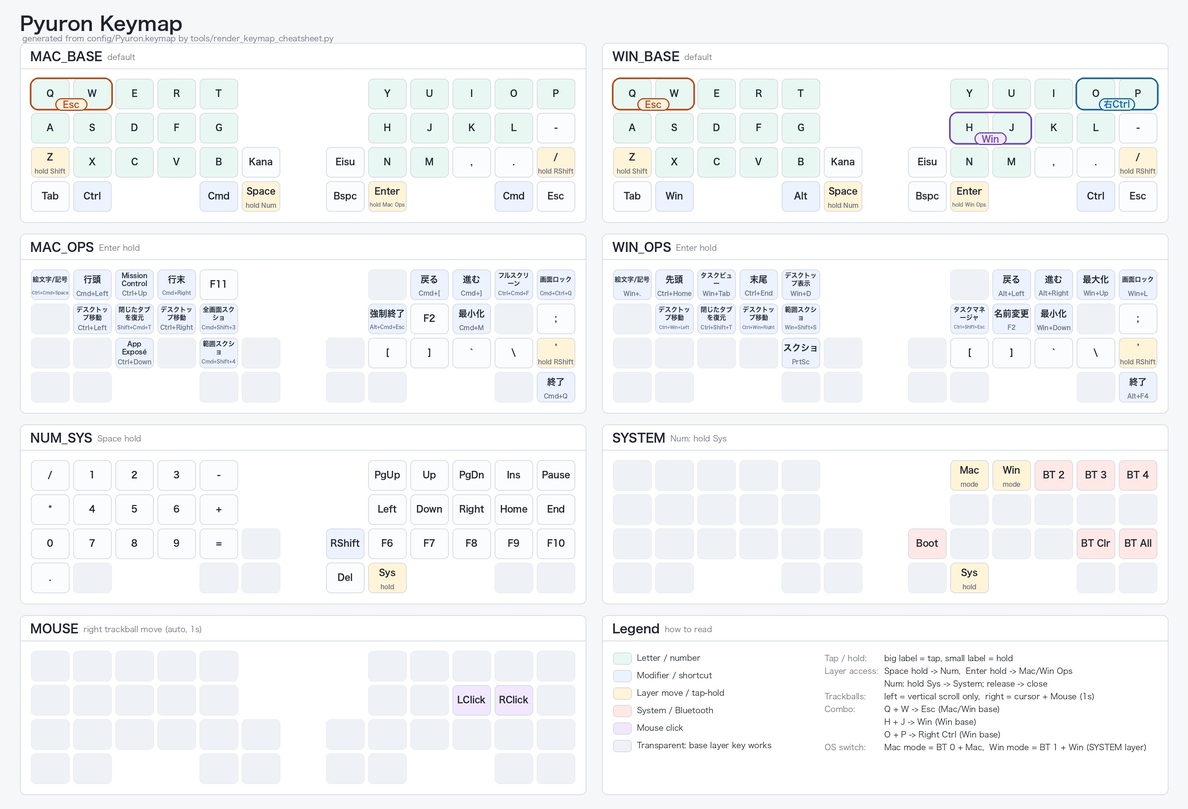
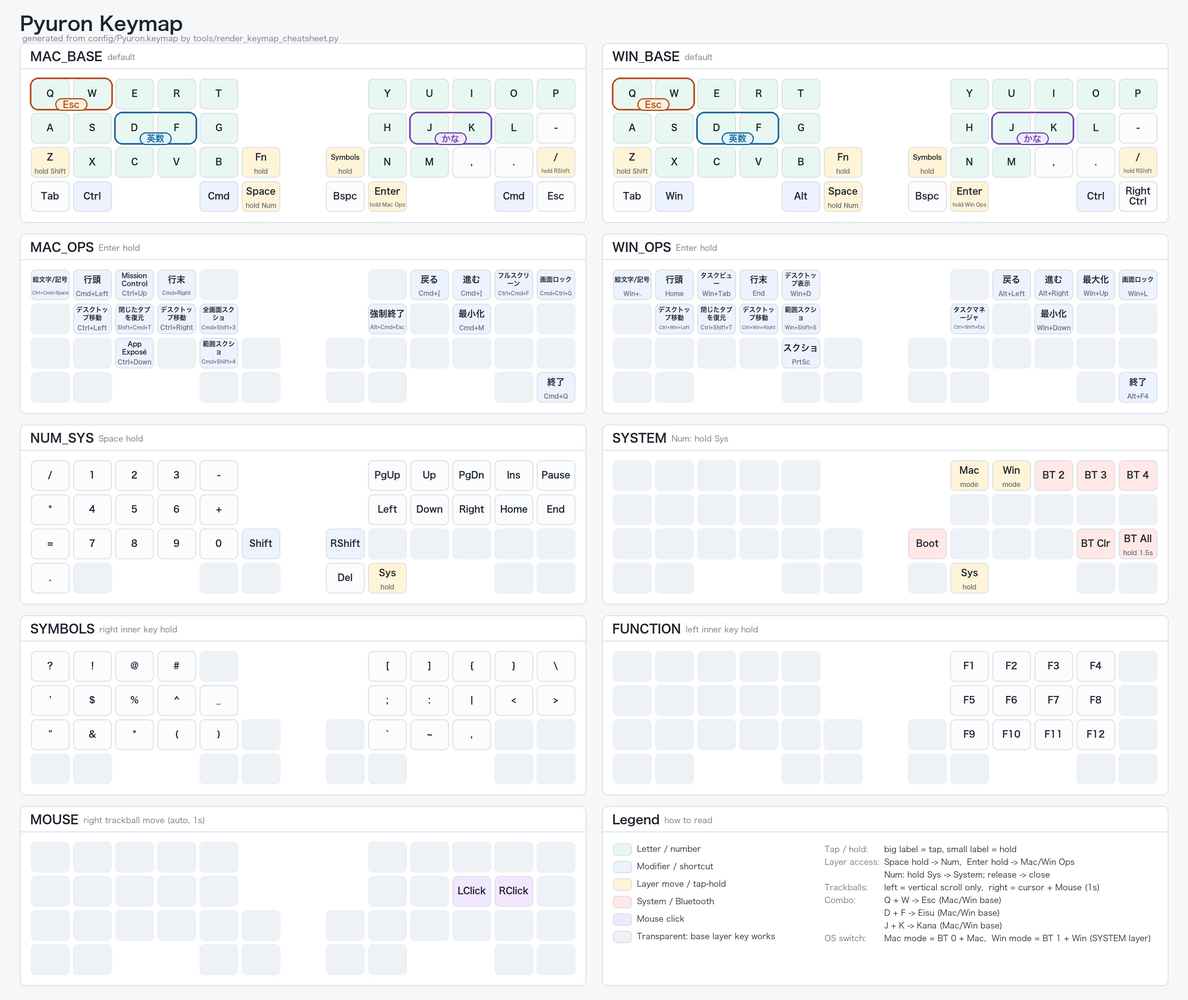
feat: 記号とFキーレイヤーを追加し共通US配列を整理

diff --git a/docs/keymap-cheatsheet.html b/docs/keymap-cheatsheet.html
@@ -430,8 +430,8 @@
       <h1>Pyuron Keymap</h1>
       <div class="meta">
         <span class="pill">40 keys</span>
-        <span class="pill">7 layers</span>
-        <span class="pill">combo Q + W -> Esc (MAC_BASE, WIN_BASE), H + J -> Win (WIN_BASE), O + P -> Right Ctrl (WIN_BASE)</span>
+        <span class="pill">9 layers</span>
+        <span class="pill">combo Q + W -> Esc (MAC_BASE, WIN_BASE), D + F -> Eisu (MAC_BASE, WIN_BASE), J + K -> Kana (MAC_BASE, WIN_BASE)</span>
       </div>
     </header>
 
@@ -467,7 +467,7 @@
     // Do not hand-edit positions/layers below; re-run the script instead.
     const positions = [{"row": 0, "col": 0, "x": 0, "y": 0}, {"row": 0, "col": 1, "x": 1, "y": 0}, {"row": 0, "col": 2, "x": 2, "y": 0}, {"row": 0, "col": 3, "x": 3, "y": 0}, {"row": 0, "col": 4, "x": 4, "y": 0}, {"row": 0, "col": 5, "x": 8, "y": 0}, {"row": 0, "col": 6, "x": 9, "y": 0}, {"row": 0, "col": 7, "x": 10, "y": 0}, {"row": 0, "col": 8, "x": 11, "y": 0}, {"row": 0, "col": 9, "x": 12, "y": 0}, {"row": 1, "col": 0, "x": 0, "y": 1}, {"row": 1, "col": 1, "x": 1, "y": 1}, {"row": 1, "col": 2, "x": 2, "y": 1}, {"row": 1, "col": 3, "x": 3, "y": 1}, {"row": 1, "col": 4, "x": 4, "y": 1}, {"row": 1, "col": 5, "x": 8, "y": 1}, {"row": 1, "col": 6, "x": 9, "y": 1}, {"row": 1, "col": 7, "x": 10, "y": 1}, {"row": 1, "col": 8, "x": 11, "y": 1}, {"row": 1, "col": 9, "x": 12, "y": 1}, {"row": 2, "col": 0, "x": 0, "y": 2}, {"row": 2, "col": 1, "x": 1, "y": 2}, {"row": 2, "col": 2, "x": 2, "y": 2}, {"row": 2, "col": 3, "x": 3, "y": 2}, {"row": 2, "col": 4, "x": 4, "y": 2}, {"row": 2, "col": 5, "x": 5, "y": 2}, {"row": 2, "col": 6, "x": 7, "y": 2}, {"row": 2, "col": 7, "x": 8, "y": 2}, {"row": 2, "col": 8, "x": 9, "y": 2}, {"row": 2, "col": 9, "x": 10, "y": 2}, {"row": 3, "col": 0, "x": 11, "y": 2}, {"row": 3, "col": 1, "x": 12, "y": 2}, {"row": 3, "col": 2, "x": 0, "y": 3}, {"row": 3, "col": 3, "x": 1, "y": 3}, {"row": 3, "col": 4, "x": 4, "y": 3}, {"row": 3, "col": 5, "x": 5, "y": 3}, {"row": 3, "col": 6, "x": 7, "y": 3}, {"row": 3, "col": 7, "x": 8, "y": 3}, {"row": 3, "col": 8, "x": 11, "y": 3}, {"row": 3, "col": 9, "x": 12, "y": 3}];
 
-    const layers = [{"name": "MAC_BASE", "group": "mac", "note": "default", "keys": [["Q", "", "letter"], ["W", "", "letter"], ["E", "", "letter"], ["R", "", "letter"], ["T", "", "letter"], ["Y", "", "letter"], ["U", "", "letter"], ["I", "", "letter"], ["O", "", "letter"], ["P", "", "letter"], ["A", "", "letter"], ["S", "", "letter"], ["D", "", "letter"], ["F", "", "letter"], ["G", "", "letter"], ["H", "", "letter"], ["J", "", "letter"], ["K", "", "letter"], ["L", "", "letter"], ["-", "", ""], ["Z", "hold Shift", "layer"], ["X", "", "letter"], ["C", "", "letter"], ["V", "", "letter"], ["B", "", "letter"], ["Kana", "", ""], ["Eisu", "", ""], ["N", "", "letter"], ["M", "", "letter"], [",", "", ""], [".", "", ""], ["/", "hold RShift", "layer"], ["Tab", "", ""], ["Ctrl", "", "mod"], ["Cmd", "", "mod"], ["Space", "hold Num", "layer"], ["Bspc", "", ""], ["Enter", "hold Mac Ops", "layer"], ["Cmd", "", "mod"], ["Esc", "", ""]]}, {"name": "MAC_OPS", "group": "mac", "note": "Enter hold", "keys": [["絵文字/記号", "Ctrl+Cmd+Space", "mod"], ["行頭", "Cmd+Left", "mod"], ["Mission Control", "Ctrl+Up", "mod"], ["行末", "Cmd+Right", "mod"], ["F11", "", ""], ["trns", "", "transparent"], ["戻る", "Cmd+[", "mod"], ["進む", "Cmd+]", "mod"], ["フルスクリーン", "Ctrl+Cmd+F", "mod"], ["画面ロック", "Cmd+Ctrl+Q", "mod"], ["trns", "", "transparent"], ["デスクトップ移動", "Ctrl+Left", "mod"], ["閉じたタブを復元", "Shift+Cmd+T", "mod"], ["デスクトップ移動", "Ctrl+Right", "mod"], ["全画面スクショ", "Cmd+Shift+3", "mod"], ["強制終了", "Alt+Cmd+Esc", "mod"], ["F2", "", ""], ["最小化", "Cmd+M", "mod"], ["trns", "", "transparent"], [";", "", ""], ["trns", "", "transparent"], ["trns", "", "transparent"], ["App Exposé", "Ctrl+Down", "mod"], ["trns", "", "transparent"], ["範囲スクショ", "Cmd+Shift+4", "mod"], ["trns", "", "transparent"], ["trns", "", "transparent"], ["[", "", ""], ["]", "", ""], ["`", "", ""], ["\\", "", ""], ["'", "hold RShift", "layer"], ["trns", "", "transparent"], ["trns", "", "transparent"], ["trns", "", "transparent"], ["trns", "", "transparent"], ["trns", "", "transparent"], ["trns", "", "transparent"], ["trns", "", "transparent"], ["終了", "Cmd+Q", "mod"]]}, {"name": "WIN_BASE", "group": "win", "note": "default", "keys": [["Q", "", "letter"], ["W", "", "letter"], ["E", "", "letter"], ["R", "", "letter"], ["T", "", "letter"], ["Y", "", "letter"], ["U", "", "letter"], ["I", "", "letter"], ["O", "", "letter"], ["P", "", "letter"], ["A", "", "letter"], ["S", "", "letter"], ["D", "", "letter"], ["F", "", "letter"], ["G", "", "letter"], ["H", "", "letter"], ["J", "", "letter"], ["K", "", "letter"], ["L", "", "letter"], ["-", "", ""], ["Z", "hold Shift", "layer"], ["X", "", "letter"], ["C", "", "letter"], ["V", "", "letter"], ["B", "", "letter"], ["Kana", "", ""], ["Eisu", "", ""], ["N", "", "letter"], ["M", "", "letter"], [",", "", ""], [".", "", ""], ["/", "hold RShift", "layer"], ["Tab", "", ""], ["Win", "", "mod"], ["Alt", "", "mod"], ["Space", "hold Num", "layer"], ["Bspc", "", ""], ["Enter", "hold Win Ops", "layer"], ["Ctrl", "", "mod"], ["Esc", "", ""]]}, {"name": "WIN_OPS", "group": "win", "note": "Enter hold", "keys": [["絵文字/記号", "Win+.", "mod"], ["先頭", "Ctrl+Home", "mod"], ["タスクビュー", "Win+Tab", "mod"], ["末尾", "Ctrl+End", "mod"], ["デスクトップ表示", "Win+D", "mod"], ["trns", "", "transparent"], ["戻る", "Alt+Left", "mod"], ["進む", "Alt+Right", "mod"], ["最大化", "Win+Up", "mod"], ["画面ロック", "Win+L", "mod"], ["trns", "", "transparent"], ["デスクトップ移動", "Ctrl+Win+Left", "mod"], ["閉じたタブを復元", "Ctrl+Shift+T", "mod"], ["デスクトップ移動", "Ctrl+Win+Right", "mod"], ["範囲スクショ", "Win+Shift+S", "mod"], ["タスクマネージャ", "Ctrl+Shift+Esc", "mod"], ["名前変更", "F2", "mod"], ["最小化", "Win+Down", "mod"], ["trns", "", "transparent"], [";", "", ""], ["trns", "", "transparent"], ["trns", "", "transparent"], ["trns", "", "transparent"], ["trns", "", "transparent"], ["スクショ", "PrtSc", "mod"], ["trns", "", "transparent"], ["trns", "", "transparent"], ["[", "", ""], ["]", "", ""], ["`", "", ""], ["\\", "", ""], ["'", "hold RShift", "layer"], ["trns", "", "transparent"], ["trns", "", "transparent"], ["trns", "", "transparent"], ["trns", "", "transparent"], ["trns", "", "transparent"], ["trns", "", "transparent"], ["trns", "", "transparent"], ["終了", "Alt+F4", "mod"]]}, {"name": "NUM_SYS", "group": "utility", "note": "Space hold", "keys": [["/", "", ""], ["1", "", ""], ["2", "", ""], ["3", "", ""], ["-", "", ""], ["PgUp", "", ""], ["Up", "", ""], ["PgDn", "", ""], ["Ins", "", ""], ["Pause", "", ""], ["*", "", ""], ["4", "", ""], ["5", "", ""], ["6", "", ""], ["+", "", ""], ["Left", "", ""], ["Down", "", ""], ["Right", "", ""], ["Home", "", ""], ["End", "", ""], ["0", "", ""], ["7", "", ""], ["8", "", ""], ["9", "", ""], ["=", "", ""], ["trns", "", "transparent"], ["RShift", "", "mod"], ["F6", "", ""], ["F7", "", ""], ["F8", "", ""], ["F9", "", ""], ["F10", "", ""], [".", "", ""], ["trns", "", "transparent"], ["trns", "", "transparent"], ["trns", "", "transparent"], ["Del", "", ""], ["Sys", "hold", "layer"], ["trns", "", "transparent"], ["trns", "", "transparent"]]}, {"name": "SYSTEM", "group": "utility", "note": "Num: hold Sys", "keys": [["trns", "", "transparent"], ["trns", "", "transparent"], ["trns", "", "transparent"], ["trns", "", "transparent"], ["trns", "", "transparent"], ["Mac", "mode", "layer"], ["Win", "mode", "layer"], ["BT 2", "", "system"], ["BT 3", "", "system"], ["BT 4", "", "system"], ["trns", "", "transparent"], ["trns", "", "transparent"], ["trns", "", "transparent"], ["trns", "", "transparent"], ["trns", "", "transparent"], ["trns", "", "transparent"], ["trns", "", "transparent"], ["trns", "", "transparent"], ["trns", "", "transparent"], ["trns", "", "transparent"], ["trns", "", "transparent"], ["trns", "", "transparent"], ["trns", "", "transparent"], ["trns", "", "transparent"], ["trns", "", "transparent"], ["trns", "", "transparent"], ["Boot", "", "system"], ["trns", "", "transparent"], ["trns", "", "transparent"], ["trns", "", "transparent"], ["BT Clr", "", "system"], ["BT All", "", "system"], ["trns", "", "transparent"], ["trns", "", "transparent"], ["trns", "", "transparent"], ["trns", "", "transparent"], ["trns", "", "transparent"], ["Sys", "hold", "layer"], ["trns", "", "transparent"], ["trns", "", "transparent"]]}, {"name": "MOUSE", "group": "utility", "note": "right trackball move (auto, 1s)", "keys": [["trns", "", "transparent"], ["trns", "", "transparent"], ["trns", "", "transparent"], ["trns", "", "transparent"], ["trns", "", "transparent"], ["trns", "", "transparent"], ["trns", "", "transparent"], ["trns", "", "transparent"], ["trns", "", "transparent"], ["trns", "", "transparent"], ["trns", "", "transparent"], ["trns", "", "transparent"], ["trns", "", "transparent"], ["trns", "", "transparent"], ["trns", "", "transparent"], ["trns", "", "transparent"], ["trns", "", "transparent"], ["LClick", "", "mouse"], ["RClick", "", "mouse"], ["trns", "", "transparent"], ["trns", "", "transparent"], ["trns", "", "transparent"], ["trns", "", "transparent"], ["trns", "", "transparent"], ["trns", "", "transparent"], ["trns", "", "transparent"], ["trns", "", "transparent"], ["trns", "", "transparent"], ["trns", "", "transparent"], ["trns", "", "transparent"], ["trns", "", "transparent"], ["trns", "", "transparent"], ["trns", "", "transparent"], ["trns", "", "transparent"], ["trns", "", "transparent"], ["trns", "", "transparent"], ["trns", "", "transparent"], ["trns", "", "transparent"], ["trns", "", "transparent"], ["trns", "", "transparent"]]}];
+    const layers = [{"name": "MAC_BASE", "group": "mac", "note": "default", "keys": [["Q", "", "letter"], ["W", "", "letter"], ["E", "", "letter"], ["R", "", "letter"], ["T", "", "letter"], ["Y", "", "letter"], ["U", "", "letter"], ["I", "", "letter"], ["O", "", "letter"], ["P", "", "letter"], ["A", "", "letter"], ["S", "", "letter"], ["D", "", "letter"], ["F", "", "letter"], ["G", "", "letter"], ["H", "", "letter"], ["J", "", "letter"], ["K", "", "letter"], ["L", "", "letter"], ["-", "", ""], ["Z", "hold Shift", "layer"], ["X", "", "letter"], ["C", "", "letter"], ["V", "", "letter"], ["B", "", "letter"], ["Fn", "hold", "layer"], ["Symbols", "hold", "layer"], ["N", "", "letter"], ["M", "", "letter"], [",", "", ""], [".", "", ""], ["/", "hold RShift", "layer"], ["Tab", "", ""], ["Ctrl", "", "mod"], ["Cmd", "", "mod"], ["Space", "hold Num", "layer"], ["Bspc", "", ""], ["Enter", "hold Mac Ops", "layer"], ["Cmd", "", "mod"], ["Esc", "", ""]]}, {"name": "MAC_OPS", "group": "mac", "note": "Enter hold", "keys": [["絵文字/記号", "Ctrl+Cmd+Space", "mod"], ["行頭", "Cmd+Left", "mod"], ["Mission Control", "Ctrl+Up", "mod"], ["行末", "Cmd+Right", "mod"], ["trns", "", "transparent"], ["trns", "", "transparent"], ["戻る", "Cmd+[", "mod"], ["進む", "Cmd+]", "mod"], ["フルスクリーン", "Ctrl+Cmd+F", "mod"], ["画面ロック", "Cmd+Ctrl+Q", "mod"], ["trns", "", "transparent"], ["デスクトップ移動", "Ctrl+Left", "mod"], ["閉じたタブを復元", "Shift+Cmd+T", "mod"], ["デスクトップ移動", "Ctrl+Right", "mod"], ["全画面スクショ", "Cmd+Shift+3", "mod"], ["強制終了", "Alt+Cmd+Esc", "mod"], ["trns", "", "transparent"], ["最小化", "Cmd+M", "mod"], ["trns", "", "transparent"], ["trns", "", "transparent"], ["trns", "", "transparent"], ["trns", "", "transparent"], ["App Exposé", "Ctrl+Down", "mod"], ["trns", "", "transparent"], ["範囲スクショ", "Cmd+Shift+4", "mod"], ["trns", "", "transparent"], ["trns", "", "transparent"], ["trns", "", "transparent"], ["trns", "", "transparent"], ["trns", "", "transparent"], ["trns", "", "transparent"], ["trns", "", "transparent"], ["trns", "", "transparent"], ["trns", "", "transparent"], ["trns", "", "transparent"], ["trns", "", "transparent"], ["trns", "", "transparent"], ["trns", "", "transparent"], ["trns", "", "transparent"], ["終了", "Cmd+Q", "mod"]]}, {"name": "WIN_BASE", "group": "win", "note": "default", "keys": [["Q", "", "letter"], ["W", "", "letter"], ["E", "", "letter"], ["R", "", "letter"], ["T", "", "letter"], ["Y", "", "letter"], ["U", "", "letter"], ["I", "", "letter"], ["O", "", "letter"], ["P", "", "letter"], ["A", "", "letter"], ["S", "", "letter"], ["D", "", "letter"], ["F", "", "letter"], ["G", "", "letter"], ["H", "", "letter"], ["J", "", "letter"], ["K", "", "letter"], ["L", "", "letter"], ["-", "", ""], ["Z", "hold Shift", "layer"], ["X", "", "letter"], ["C", "", "letter"], ["V", "", "letter"], ["B", "", "letter"], ["Fn", "hold", "layer"], ["Symbols", "hold", "layer"], ["N", "", "letter"], ["M", "", "letter"], [",", "", ""], [".", "", ""], ["/", "hold RShift", "layer"], ["Tab", "", ""], ["Win", "", "mod"], ["Alt", "", "mod"], ["Space", "hold Num", "layer"], ["Bspc", "", ""], ["Enter", "hold Win Ops", "layer"], ["Ctrl", "", "mod"], ["Right Ctrl", "", ""]]}, {"name": "WIN_OPS", "group": "win", "note": "Enter hold", "keys": [["絵文字/記号", "Win+.", "mod"], ["行頭", "Home", "mod"], ["タスクビュー", "Win+Tab", "mod"], ["行末", "End", "mod"], ["デスクトップ表示", "Win+D", "mod"], ["trns", "", "transparent"], ["戻る", "Alt+Left", "mod"], ["進む", "Alt+Right", "mod"], ["最大化", "Win+Up", "mod"], ["画面ロック", "Win+L", "mod"], ["trns", "", "transparent"], ["デスクトップ移動", "Ctrl+Win+Left", "mod"], ["閉じたタブを復元", "Ctrl+Shift+T", "mod"], ["デスクトップ移動", "Ctrl+Win+Right", "mod"], ["範囲スクショ", "Win+Shift+S", "mod"], ["タスクマネージャ", "Ctrl+Shift+Esc", "mod"], ["trns", "", "transparent"], ["最小化", "Win+Down", "mod"], ["trns", "", "transparent"], ["trns", "", "transparent"], ["trns", "", "transparent"], ["trns", "", "transparent"], ["trns", "", "transparent"], ["trns", "", "transparent"], ["スクショ", "PrtSc", "mod"], ["trns", "", "transparent"], ["trns", "", "transparent"], ["trns", "", "transparent"], ["trns", "", "transparent"], ["trns", "", "transparent"], ["trns", "", "transparent"], ["trns", "", "transparent"], ["trns", "", "transparent"], ["trns", "", "transparent"], ["trns", "", "transparent"], ["trns", "", "transparent"], ["trns", "", "transparent"], ["trns", "", "transparent"], ["trns", "", "transparent"], ["終了", "Alt+F4", "mod"]]}, {"name": "NUM_SYS", "group": "utility", "note": "Space hold", "keys": [["/", "", ""], ["1", "", ""], ["2", "", ""], ["3", "", ""], ["-", "", ""], ["PgUp", "", ""], ["Up", "", ""], ["PgDn", "", ""], ["Ins", "", ""], ["Pause", "", ""], ["*", "", ""], ["4", "", ""], ["5", "", ""], ["6", "", ""], ["+", "", ""], ["Left", "", ""], ["Down", "", ""], ["Right", "", ""], ["Home", "", ""], ["End", "", ""], ["=", "", ""], ["7", "", ""], ["8", "", ""], ["9", "", ""], ["0", "", ""], ["Shift", "", "mod"], ["RShift", "", "mod"], ["trns", "", "transparent"], ["trns", "", "transparent"], ["trns", "", "transparent"], ["trns", "", "transparent"], ["trns", "", "transparent"], [".", "", ""], ["trns", "", "transparent"], ["trns", "", "transparent"], ["trns", "", "transparent"], ["Del", "", ""], ["Sys", "hold", "layer"], ["trns", "", "transparent"], ["trns", "", "transparent"]]}, {"name": "SYSTEM", "group": "utility", "note": "Num: hold Sys", "keys": [["trns", "", "transparent"], ["trns", "", "transparent"], ["trns", "", "transparent"], ["trns", "", "transparent"], ["trns", "", "transparent"], ["Mac", "mode", "layer"], ["Win", "mode", "layer"], ["BT 2", "", "system"], ["BT 3", "", "system"], ["BT 4", "", "system"], ["trns", "", "transparent"], ["trns", "", "transparent"], ["trns", "", "transparent"], ["trns", "", "transparent"], ["trns", "", "transparent"], ["trns", "", "transparent"], ["trns", "", "transparent"], ["trns", "", "transparent"], ["trns", "", "transparent"], ["trns", "", "transparent"], ["trns", "", "transparent"], ["trns", "", "transparent"], ["trns", "", "transparent"], ["trns", "", "transparent"], ["trns", "", "transparent"], ["trns", "", "transparent"], ["Boot", "", "system"], ["trns", "", "transparent"], ["trns", "", "transparent"], ["trns", "", "transparent"], ["BT Clr", "", "system"], ["BT All", "hold 1.5s", "system"], ["trns", "", "transparent"], ["trns", "", "transparent"], ["trns", "", "transparent"], ["trns", "", "transparent"], ["trns", "", "transparent"], ["Sys", "hold", "layer"], ["trns", "", "transparent"], ["trns", "", "transparent"]]}, {"name": "SYMBOLS", "group": "utility", "note": "right inner key hold", "keys": [["?", "", ""], ["!", "", ""], ["@", "", ""], ["#", "", ""], ["trns", "", "transparent"], ["[", "", ""], ["]", "", ""], ["{", "", ""], ["}", "", ""], ["\\", "", ""], ["'", "", ""], ["$", "", ""], ["%", "", ""], ["^", "", ""], ["_", "", ""], [";", "", ""], [":", "", ""], ["|", "", ""], ["<", "", ""], [">", "", ""], ["\"", "", ""], ["&", "", ""], ["*", "", ""], ["(", "", ""], [")", "", ""], ["trns", "", "transparent"], ["trns", "", "transparent"], ["`", "", ""], ["~", "", ""], [",", "", ""], ["trns", "", "transparent"], ["trns", "", "transparent"], ["trns", "", "transparent"], ["trns", "", "transparent"], ["trns", "", "transparent"], ["trns", "", "transparent"], ["trns", "", "transparent"], ["trns", "", "transparent"], ["trns", "", "transparent"], ["trns", "", "transparent"]]}, {"name": "FUNCTION", "group": "utility", "note": "left inner key hold", "keys": [["trns", "", "transparent"], ["trns", "", "transparent"], ["trns", "", "transparent"], ["trns", "", "transparent"], ["trns", "", "transparent"], ["F1", "", ""], ["F2", "", ""], ["F3", "", ""], ["F4", "", ""], ["trns", "", "transparent"], ["trns", "", "transparent"], ["trns", "", "transparent"], ["trns", "", "transparent"], ["trns", "", "transparent"], ["trns", "", "transparent"], ["F5", "", ""], ["F6", "", ""], ["F7", "", ""], ["F8", "", ""], ["trns", "", "transparent"], ["trns", "", "transparent"], ["trns", "", "transparent"], ["trns", "", "transparent"], ["trns", "", "transparent"], ["trns", "", "transparent"], ["trns", "", "transparent"], ["trns", "", "transparent"], ["F9", "", ""], ["F10", "", ""], ["F11", "", ""], ["F12", "", ""], ["trns", "", "transparent"], ["trns", "", "transparent"], ["trns", "", "transparent"], ["trns", "", "transparent"], ["trns", "", "transparent"], ["trns", "", "transparent"], ["trns", "", "transparent"], ["trns", "", "transparent"], ["trns", "", "transparent"]]}, {"name": "MOUSE", "group": "utility", "note": "right trackball move (auto, 1s)", "keys": [["trns", "", "transparent"], ["trns", "", "transparent"], ["trns", "", "transparent"], ["trns", "", "transparent"], ["trns", "", "transparent"], ["trns", "", "transparent"], ["trns", "", "transparent"], ["trns", "", "transparent"], ["trns", "", "transparent"], ["trns", "", "transparent"], ["trns", "", "transparent"], ["trns", "", "transparent"], ["trns", "", "transparent"], ["trns", "", "transparent"], ["trns", "", "transparent"], ["trns", "", "transparent"], ["trns", "", "transparent"], ["LClick", "", "mouse"], ["RClick", "", "mouse"], ["trns", "", "transparent"], ["trns", "", "transparent"], ["trns", "", "transparent"], ["trns", "", "transparent"], ["trns", "", "transparent"], ["trns", "", "transparent"], ["trns", "", "transparent"], ["trns", "", "transparent"], ["trns", "", "transparent"], ["trns", "", "transparent"], ["trns", "", "transparent"], ["trns", "", "transparent"], ["trns", "", "transparent"], ["trns", "", "transparent"], ["trns", "", "transparent"], ["trns", "", "transparent"], ["trns", "", "transparent"], ["trns", "", "transparent"], ["trns", "", "transparent"], ["trns", "", "transparent"], ["trns", "", "transparent"]]}];
 
     const app = document.querySelector("#app");
     const layersContainer = document.querySelector("#layers");

diff --git a/tests/test_jis_symbols.py b/tests/test_jis_symbols.py
@@ -1,0 +1,122 @@
+"""Regression checks for the shared US layout (formerly JIS tests)."""
+import re
+import sys
+import unittest
+from pathlib import Path
+
+ROOT = Path(__file__).resolve().parents[1]
+sys.path.insert(0, str(ROOT / 'tools'))
+from pyuron_keymap import parse_layers
+
+
+class SharedUsLayout(unittest.TestCase):
+    @classmethod
+    def setUpClass(cls):
+        cls.source = (ROOT / 'config/Pyuron.keymap').read_text()
+        cls.layers = {layer.name: layer.bindings for layer in parse_layers(cls.source)}
+
+    def test_shared_layer_routes(self):
+        self.assertEqual(list(self.layers), ['MAC_BASE', 'MAC_OPS', 'WIN_BASE', 'WIN_OPS', 'NUM_SYS', 'SYSTEM', 'SYMBOLS', 'FUNCTION', 'MOUSE'])
+        for name in ('MAC_BASE', 'WIN_BASE'):
+            self.assertEqual(self.layers[name][35], '&lt 4 SPACE')
+        for name in ('NUM_SYS', 'SYSTEM'):
+            self.assertEqual(self.layers[name][37], '&mo 5')
+        self.assertIn('<&zip_temp_layer 8 1000>', (ROOT / 'config/boards/shields/Pyuron/Pyuron.dtsi').read_text())
+        self.assertNotIn('jis', self.source)
+
+    def test_controls_and_escape(self):
+        self.assertEqual(self.layers['WIN_BASE'][39], '&kp RCTRL')
+        self.assertEqual(self.layers['WIN_BASE'][38], '&kp LCTRL')
+        self.assertEqual(self.layers['MAC_BASE'][39], '&kp ESC')
+        self.assertEqual(re.findall(r'combo_\w+\s*\{', self.source), ['combo_esc {', 'combo_eisu {', 'combo_kana {'])
+        self.assertRegex(self.source, r'(?s)combo_esc \{.*?key-positions = <0 1>;.*?bindings = <&kp ESC>;.*?layers = <0 2>;')
+
+    def test_line_navigation_and_guarded_clear(self):
+        self.assertEqual(self.layers['WIN_OPS'][1], '&kp HOME')
+        self.assertEqual(self.layers['WIN_OPS'][3], '&kp END')
+        self.assertEqual(self.layers['SYSTEM'][31], '&bt_clear_hold 0 0')
+        behavior = re.search(r'bt_clear_hold:.*?\n        };', self.source, re.S)[0]
+        self.assertIn('tapping-term-ms = <1500>;', behavior)
+        self.assertIn('flavor = "tap-preferred";', behavior)
+        self.assertIn('bindings = <&clear_all_bonds>, <&none>;', behavior)
+        self.assertNotIn('hold-while-undecided', behavior)
+        self.assertIn('bindings = <&bt BT_CLR_ALL>;', self.source)
+
+    def test_number_layer_shifts_preserve_base_keys(self):
+        numbers = self.layers['NUM_SYS']
+        self.assertEqual(numbers[25], '&kp LEFT_SHIFT')
+        self.assertEqual(numbers[26], '&kp RIGHT_SHIFT')
+        self.assertEqual(numbers[24], '&kp N0')
+        self.assertEqual(numbers[20], '&kp EQUAL')
+        for position in (33, 34, 38, 39):
+            self.assertEqual(numbers[position], '&trans')
+        for name in ('MAC_BASE', 'WIN_BASE'):
+            self.assertEqual(self.layers[name][25], '&mo 7')
+            self.assertEqual(self.layers[name][26], '&mo 6')
+
+    def test_language_combos(self):
+        for name, positions, target in [('eisu', '12 13', 'LANG2'), ('kana', '16 17', 'LANG1')]:
+            body = re.search(r'combo_' + name + r' \{(.*?)\};', self.source, re.S)[1]
+            self.assertIn('key-positions = <' + positions + '>;', body)
+            self.assertIn('bindings = <&kp ' + target + '>;', body)
+            self.assertIn('layers = <0 2>;', body)
+            self.assertIn('timeout-ms = <50>;', body)
+
+    def test_new_layer_contents(self):
+        for position, number in [(1, 1), (2, 2), (3, 3), (11, 4), (12, 5), (13, 6), (21, 7), (22, 8), (23, 9), (24, 0)]:
+            self.assertEqual(self.layers['SYMBOLS'][position], f'&kp LS(N{number})')
+        for position, number in zip([5, 6, 7, 8, 15, 16, 17, 18, 27, 28, 29, 30], range(1, 13)):
+            self.assertEqual(self.layers['FUNCTION'][position], f'&kp F{number}')
+        self.assertEqual(self.layers['SYMBOLS'][20], '&kp LS(SINGLE_QUOTE)')
+        for position in (0, 1, 2, 3, 4, 10, 11, 12, 13, 14, 20, 21):
+            self.assertEqual(self.layers['FUNCTION'][position], '&trans')
+        for name in ('SYMBOLS', 'FUNCTION'):
+            for position in (25, 26, 33, 34, 38):
+                self.assertEqual(self.layers[name][position], '&trans')
+
+    def test_shifted_number_labels(self):
+        from render_keymap_cheatsheet import label_for
+        for number, symbol in enumerate(')!@#$%^&*('):
+            self.assertEqual(label_for(f'&kp LS(N{number})', 'SYMBOLS').primary, symbol)
+
+    def test_symbol_coverage_and_no_duplicate_function_keys(self):
+        import string
+        from render_keymap_cheatsheet import label_for
+        symbols = [label_for(binding, 'SYMBOLS').primary for binding in self.layers['SYMBOLS'] if binding.startswith('&kp ')]
+        self.assertEqual(set(symbols), set(string.punctuation) - set('/-+=.'))
+        self.assertEqual(len(symbols), len(set(symbols)))
+        for position in (4, 30, 31, 32, 39):
+            self.assertEqual(self.layers['SYMBOLS'][position], '&trans')
+        for name, bindings in self.layers.items():
+            if name != 'FUNCTION':
+                self.assertFalse(any(re.fullmatch(r'&kp F[0-9]+', binding) for binding in bindings), name)
+        for name in ('MAC_OPS', 'WIN_OPS'):
+            for position in (16, 19, 27, 28, 29, 30, 31):
+                self.assertEqual(self.layers[name][position], '&trans')
+        for position in (27, 28, 29, 30, 31):
+            self.assertEqual(self.layers['NUM_SYS'][position], '&trans')
+
+    def test_numeric_operators_and_decimal(self):
+        for position, key in {0: 'FSLH', 4: 'MINUS', 10: 'ASTERISK', 14: 'PLUS', 20: 'EQUAL', 32: 'DOT'}.items():
+            self.assertEqual(self.layers['NUM_SYS'][position], '&kp ' + key)
+
+    def test_left_symbol_column(self):
+        for position, key in {0: 'LS(SLASH)', 10: 'SINGLE_QUOTE', 20: 'LS(SINGLE_QUOTE)'}.items():
+            self.assertEqual(self.layers['SYMBOLS'][position], '&kp ' + key)
+        for position in (30, 31, 39):
+            self.assertEqual(self.layers['SYMBOLS'][position], '&trans')
+
+    def test_packed_right_symbols(self):
+        from render_keymap_cheatsheet import label_for
+        positions = [5, 6, 7, 8, 9, 15, 16, 17, 18, 19, 27, 28, 29]
+        labels = ''.join(label_for(self.layers['SYMBOLS'][position], 'SYMBOLS').primary for position in positions)
+        self.assertEqual(labels, '[]{}' + chr(92) + ';:|<>`~,')
+
+    def test_us_symbols(self):
+        self.assertEqual(self.layers['WIN_BASE'][19], '&kp MINUS')
+        for position in (19, 27, 28, 29, 30, 31):
+            self.assertEqual(self.layers['WIN_OPS'][position], self.layers['MAC_OPS'][position])
+
+
+if __name__ == '__main__':
+    unittest.main()

diff --git a/tools/render_keymap_cheatsheet.py b/tools/render_keymap_cheatsheet.py
@@ -157,8 +157,8 @@ SHORTCUT_LABELS: dict[str, dict[str, str]] = {
         "Alt+F4": "終了",
         "Ctrl+Win+Left": "デスクトップ移動",
         "Ctrl+Win+Right": "デスクトップ移動",
-        "Ctrl+Home": "先頭",
-        "Ctrl+End": "末尾",
+        "Home": "行頭",
+        "End": "行末",
         "PrtSc": "スクショ",
         "Win+.": "絵文字/記号",
         "Shift+Alt+Tab": "前のアプリ",
@@ -175,7 +175,9 @@ LAYER_NAMES = {
     "3": "Win Ops",
     "4": "Num",
     "5": "Sys",
-    "6": "Mouse",
+    "6": "Symbols",
+    "7": "Fn",
+    "8": "Mouse",
 }
 
 LAYER_NOTES = {
@@ -185,6 +187,8 @@ LAYER_NOTES = {
     "WIN_OPS": "Enter hold",
     "NUM_SYS": "Space hold",
     "SYSTEM": "Num: hold Sys",
+    "SYMBOLS": "right inner key hold",
+    "FUNCTION": "left inner key hold",
     "MOUSE": "right trackball move (auto, 1s)",
 }
 
@@ -195,6 +199,8 @@ LAYER_GROUP = {
     "WIN_OPS": "win",
     "NUM_SYS": "utility",
     "SYSTEM": "utility",
+    "SYMBOLS": "utility",
+    "FUNCTION": "utility",
     "MOUSE": "utility",
 }
 
@@ -205,6 +211,8 @@ LAYER_DESCRIPTIONS = {
     "WIN_OPS": "Windows用操作レイヤー。`WIN_BASE` の `Enter` 長押し",
     "NUM_SYS": "数字・記号・カーソル。Baseの `Space` 長押し",
     "SYSTEM": "Bluetooth・OS切替・Bootloader。NUM_SYSのDelete右隣を押している間だけ有効。離すと戻る",
+    "SYMBOLS": "元英数キーを保持。US記号27種類。数字のShift記号を維持し、右側は左詰め",
+    "FUNCTION": "元かなキーを保持。右手側4列×3行にF1〜F12",
     "MOUSE": "マウスクリック用。右トラックボールを動かすと1秒間自動で有効",
 }
 
@@ -213,11 +221,12 @@ LAYER_GRID = [
     ["MAC_BASE", "WIN_BASE"],
     ["MAC_OPS", "WIN_OPS"],
     ["NUM_SYS", "SYSTEM"],
+    ["SYMBOLS", "FUNCTION"],
     ["MOUSE", None],
 ]
 
 # Sequential order used by the Markdown/HTML documents (linear reading, unlike the JPG's 2-column grid).
-DOC_LAYER_ORDER = ["MAC_BASE", "MAC_OPS", "WIN_BASE", "WIN_OPS", "NUM_SYS", "SYSTEM", "MOUSE"]
+DOC_LAYER_ORDER = ["MAC_BASE", "MAC_OPS", "WIN_BASE", "WIN_OPS", "NUM_SYS", "SYSTEM", "SYMBOLS", "FUNCTION", "MOUSE"]
 
 MARGIN = 50
 COLUMN_GAP = 40
@@ -347,6 +356,8 @@ def label_for(binding: str, layer_name: str) -> Label:
         return Label("")
     behavior = parts[0]
 
+    if behavior == "&bt_clear_hold":
+        return Label("BT All", hint="hold 1.5s", kind="system")
     if behavior == "&trans":
         return Label("", kind="transparent")
     if behavior == "&bootloader":
@@ -375,6 +386,17 @@ def label_for(binding: str, layer_name: str) -> Label:
     if behavior == "&mt" and len(parts) > 2:
         return Label(key_name(parts[2], layer_name), hint=f"hold {key_name(parts[1], layer_name)}", kind="layer")
     if behavior == "&kp" and len(parts) > 1:
+        shifted_number = re.fullmatch(r"LS\(N([0-9])\)", parts[1])
+        if shifted_number:
+            return Label(")!@#$%^&*("[int(shifted_number[1])])
+        shifted_symbols = {
+            "LS(MINUS)": "_", "LS(EQUAL)": "+", "LS(LEFT_BRACKET)": "{",
+            "LS(RIGHT_BRACKET)": "}", "LS(SEMICOLON)": ":", "LS(SINGLE_QUOTE)": '"',
+            "LS(BACKSLASH)": "|", "LS(COMMA)": "<", "LS(DOT)": ">",
+            "LS(GRAVE)": "~", "LS(SLASH)": "?",
+        }
+        if parts[1] in shifted_symbols:
+            return Label(shifted_symbols[parts[1]])
         primary = label_kp(parts[1], layer_name)
         function_name = SHORTCUT_LABELS.get(layer_name, {}).get(primary)
         if function_name:
@@ -574,7 +596,7 @@ def draw_layer(draw: ImageDraw.ImageDraw, x: int, y: int, name: str, labels: lis
 def draw_combo_overlays(draw: ImageDraw.ImageDraw, x: int, y: int, name: str, positions: list[dict[str, int]], combos: list[tuple[list[int], str, list[str]]]) -> None:
     if name not in {"MAC_BASE", "WIN_BASE"}:
         return
-    palette = {"&kp ESC": ("#bd4c14", "#fff0df", "Esc"), "&kp LGUI": ("#7147b7", "#f1e8ff", "Win"), "&kp RCTRL": ("#176aa1", "#e0f3ff", "右Ctrl")}
+    palette = {"&kp LANG2": ("#176aa1", "#e0f3ff", "英数"), "&kp LANG1": ("#7147b7", "#f1e8ff", "かな"), "&kp ESC": ("#bd4c14", "#fff0df", "Esc"), "&kp LGUI": ("#7147b7", "#f1e8ff", "Win"), "&kp RCTRL": ("#176aa1", "#e0f3ff", "右Ctrl")}
     for keys, target, scope in combos:
         if (scope and name not in scope) or target not in palette or len(keys) != 2:
             continue
@@ -658,8 +680,8 @@ def markdown_cell(label: Label) -> str:
     if not primary:
         return ""
     if label.hint:
-        return f"{primary} / {label.hint}"
-    return primary
+        primary = f"{primary} / {label.hint}"
+    return primary.replace("&", "&amp;").replace("|", "&#124;").replace("\\", "&#92;").replace("`", "&#96;")
 
 
 def render_markdown_layer(name: str, labels: list[Label], positions: list[dict[str, int]], max_x: int, max_y: int) -> str:

diff --git a/docs/keymap-cheatsheet.md b/docs/keymap-cheatsheet.md
@@ -21,7 +21,9 @@
 | 3 | `WIN_OPS` | Windows用操作レイヤー。`WIN_BASE` の `Enter` 長押し |
 | 4 | `NUM_SYS` | 数字・記号・カーソル。Baseの `Space` 長押し |
 | 5 | `SYSTEM` | Bluetooth・OS切替・Bootloader。NUM_SYSのDelete右隣を押している間だけ有効。離すと戻る |
-| 6 | `MOUSE` | マウスクリック用。右トラックボールを動かすと1秒間自動で有効 |
+| 6 | `SYMBOLS` | 元英数キーを保持。US記号27種類。数字のShift記号を維持し、右側は左詰め |
+| 7 | `FUNCTION` | 元かなキーを保持。右手側4列×3行にF1〜F12 |
+| 8 | `MOUSE` | マウスクリック用。右トラックボールを動かすと1秒間自動で有効 |
 
 ## 読み方
 
@@ -33,8 +35,8 @@
 - 左トラックボールは縦スクロール専用です。横スクロールは出力しません。
 - 右トラックボールはカーソル移動用で、動かすと `MOUSE` が1秒間有効になります。
 - コンボ: `Q + W -> Esc (MAC_BASE, WIN_BASE)`
-- コンボ: `H + J -> Win (WIN_BASE)`
-- コンボ: `O + P -> Right Ctrl (WIN_BASE)`
+- コンボ: `D + F -> Eisu (MAC_BASE, WIN_BASE)`
+- コンボ: `J + K -> Kana (MAC_BASE, WIN_BASE)`
 
 ## MAC_BASE
 
@@ -42,16 +44,16 @@
 | --- | --- | --- | --- | --- | --- | --- | --- | --- | --- | --- | --- | --- |
 | Q | W | E | R | T |  |  |  | Y | U | I | O | P |
 | A | S | D | F | G |  |  |  | H | J | K | L | - |
-| Z / hold Shift | X | C | V | B | Kana |  | Eisu | N | M | , | . | / / hold RShift |
+| Z / hold Shift | X | C | V | B | Fn / hold |  | Symbols / hold | N | M | , | . | / / hold RShift |
 | Tab | Ctrl |  |  | Cmd | Space / hold Num |  | Bspc | Enter / hold Mac Ops |  |  | Cmd | Esc |
 
 ## MAC_OPS
 
 | x0 | x1 | x2 | x3 | x4 | x5 | x6 | x7 | x8 | x9 | x10 | x11 | x12 |
 | --- | --- | --- | --- | --- | --- | --- | --- | --- | --- | --- | --- | --- |
-| 絵文字/記号 / Ctrl+Cmd+Space | 行頭 / Cmd+Left | Mission Control / Ctrl+Up | 行末 / Cmd+Right | F11 |  |  |  | trns | 戻る / Cmd+[ | 進む / Cmd+] | フルスクリーン / Ctrl+Cmd+F | 画面ロック / Cmd+Ctrl+Q |
-| trns | デスクトップ移動 / Ctrl+Left | 閉じたタブを復元 / Shift+Cmd+T | デスクトップ移動 / Ctrl+Right | 全画面スクショ / Cmd+Shift+3 |  |  |  | 強制終了 / Alt+Cmd+Esc | F2 | 最小化 / Cmd+M | trns | ; |
-| trns | trns | App Exposé / Ctrl+Down | trns | 範囲スクショ / Cmd+Shift+4 | trns |  | trns | [ | ] | ` | \ | ' / hold RShift |
+| 絵文字/記号 / Ctrl+Cmd+Space | 行頭 / Cmd+Left | Mission Control / Ctrl+Up | 行末 / Cmd+Right | trns |  |  |  | trns | 戻る / Cmd+[ | 進む / Cmd+] | フルスクリーン / Ctrl+Cmd+F | 画面ロック / Cmd+Ctrl+Q |
+| trns | デスクトップ移動 / Ctrl+Left | 閉じたタブを復元 / Shift+Cmd+T | デスクトップ移動 / Ctrl+Right | 全画面スクショ / Cmd+Shift+3 |  |  |  | 強制終了 / Alt+Cmd+Esc | trns | 最小化 / Cmd+M | trns | trns |
+| trns | trns | App Exposé / Ctrl+Down | trns | 範囲スクショ / Cmd+Shift+4 | trns |  | trns | trns | trns | trns | trns | trns |
 | trns | trns |  |  | trns | trns |  | trns | trns |  |  | trns | 終了 / Cmd+Q |
 
 ## WIN_BASE
@@ -60,16 +62,16 @@
 | --- | --- | --- | --- | --- | --- | --- | --- | --- | --- | --- | --- | --- |
 | Q | W | E | R | T |  |  |  | Y | U | I | O | P |
 | A | S | D | F | G |  |  |  | H | J | K | L | - |
-| Z / hold Shift | X | C | V | B | Kana |  | Eisu | N | M | , | . | / / hold RShift |
-| Tab | Win |  |  | Alt | Space / hold Num |  | Bspc | Enter / hold Win Ops |  |  | Ctrl | Esc |
+| Z / hold Shift | X | C | V | B | Fn / hold |  | Symbols / hold | N | M | , | . | / / hold RShift |
+| Tab | Win |  |  | Alt | Space / hold Num |  | Bspc | Enter / hold Win Ops |  |  | Ctrl | Right Ctrl |
 
 ## WIN_OPS
 
 | x0 | x1 | x2 | x3 | x4 | x5 | x6 | x7 | x8 | x9 | x10 | x11 | x12 |
 | --- | --- | --- | --- | --- | --- | --- | --- | --- | --- | --- | --- | --- |
-| 絵文字/記号 / Win+. | 先頭 / Ctrl+Home | タスクビュー / Win+Tab | 末尾 / Ctrl+End | デスクトップ表示 / Win+D |  |  |  | trns | 戻る / Alt+Left | 進む / Alt+Right | 最大化 / Win+Up | 画面ロック / Win+L |
-| trns | デスクトップ移動 / Ctrl+Win+Left | 閉じたタブを復元 / Ctrl+Shift+T | デスクトップ移動 / Ctrl+Win+Right | 範囲スクショ / Win+Shift+S |  |  |  | タスクマネージャ / Ctrl+Shift+Esc | 名前変更 / F2 | 最小化 / Win+Down | trns | ; |
-| trns | trns | trns | trns | スクショ / PrtSc | trns |  | trns | [ | ] | ` | \ | ' / hold RShift |
+| 絵文字/記号 / Win+. | 行頭 / Home | タスクビュー / Win+Tab | 行末 / End | デスクトップ表示 / Win+D |  |  |  | trns | 戻る / Alt+Left | 進む / Alt+Right | 最大化 / Win+Up | 画面ロック / Win+L |
+| trns | デスクトップ移動 / Ctrl+Win+Left | 閉じたタブを復元 / Ctrl+Shift+T | デスクトップ移動 / Ctrl+Win+Right | 範囲スクショ / Win+Shift+S |  |  |  | タスクマネージャ / Ctrl+Shift+Esc | trns | 最小化 / Win+Down | trns | trns |
+| trns | trns | trns | trns | スクショ / PrtSc | trns |  | trns | trns | trns | trns | trns | trns |
 | trns | trns |  |  | trns | trns |  | trns | trns |  |  | trns | 終了 / Alt+F4 |
 
 ## NUM_SYS
@@ -78,7 +80,7 @@
 | --- | --- | --- | --- | --- | --- | --- | --- | --- | --- | --- | --- | --- |
 | / | 1 | 2 | 3 | - |  |  |  | PgUp | Up | PgDn | Ins | Pause |
 | * | 4 | 5 | 6 | + |  |  |  | Left | Down | Right | Home | End |
-| 0 | 7 | 8 | 9 | = | trns |  | RShift | F6 | F7 | F8 | F9 | F10 |
+| = | 7 | 8 | 9 | 0 | Shift |  | RShift | trns | trns | trns | trns | trns |
 | . | trns |  |  | trns | trns |  | Del | Sys / hold |  |  | trns | trns |
 
 ## SYSTEM
@@ -87,8 +89,26 @@
 | --- | --- | --- | --- | --- | --- | --- | --- | --- | --- | --- | --- | --- |
 | trns | trns | trns | trns | trns |  |  |  | Mac / mode | Win / mode | BT 2 | BT 3 | BT 4 |
 | trns | trns | trns | trns | trns |  |  |  | trns | trns | trns | trns | trns |
-| trns | trns | trns | trns | trns | trns |  | Boot | trns | trns | trns | BT Clr | BT All |
+| trns | trns | trns | trns | trns | trns |  | Boot | trns | trns | trns | BT Clr | BT All / hold 1.5s |
 | trns | trns |  |  | trns | trns |  | trns | Sys / hold |  |  | trns | trns |
+
+## SYMBOLS
+
+| x0 | x1 | x2 | x3 | x4 | x5 | x6 | x7 | x8 | x9 | x10 | x11 | x12 |
+| --- | --- | --- | --- | --- | --- | --- | --- | --- | --- | --- | --- | --- |
+| ? | ! | @ | # | trns |  |  |  | [ | ] | { | } | &#92; |
+| ' | $ | % | ^ | _ |  |  |  | ; | : | &#124; | < | > |
+| " | &amp; | * | ( | ) | trns |  | trns | &#96; | ~ | , | trns | trns |
+| trns | trns |  |  | trns | trns |  | trns | trns |  |  | trns | trns |
+
+## FUNCTION
+
+| x0 | x1 | x2 | x3 | x4 | x5 | x6 | x7 | x8 | x9 | x10 | x11 | x12 |
+| --- | --- | --- | --- | --- | --- | --- | --- | --- | --- | --- | --- | --- |
+| trns | trns | trns | trns | trns |  |  |  | F1 | F2 | F3 | F4 | trns |
+| trns | trns | trns | trns | trns |  |  |  | F5 | F6 | F7 | F8 | trns |
+| trns | trns | trns | trns | trns | trns |  | trns | F9 | F10 | F11 | F12 | trns |
+| trns | trns |  |  | trns | trns |  | trns | trns |  |  | trns | trns |
 
 ## MOUSE
 

diff --git a/README.md b/README.md
@@ -2,8 +2,27 @@
 
 ## キーマップ早見表
 
-現在の配置は [Pyuron Keymap Cheatsheet](docs/keymap-cheatsheet.html) で確認できます。
-画像版は [Pyuron Keymap JPG](docs/keymap-cheatsheet.jpg) です。
+現在生成済みの早見表を以下に表示します。拡大する場合は画像をクリックしてください。
+
+Mac／Windowsとも端末側をUS配列に設定して使う構成です。NUM_SYSは共通で、Windows専用のJIS変換レイヤーはありません。
+
+- Windows OPSの行頭・行末はHome／Endです。文書全体の先頭・末尾へはCtrlを併用します。
+- SYSTEMの「BT All」は1.5秒長押しで全Bluetooth接続設定を消去します。短押しでは何も起きません。隣の「BT Clr」は従来どおり単押しです。
+- Windows右下は右Ctrl。その左は左Ctrlです。
+- 英数はD＋F、かなはJ＋Kのコンボで入力します（両OSのベースのみ、50ms判定）。
+- 元かなキーを押している間はFUNCTION、元英数キーを押している間はSYMBOLSを開き、離すと戻ります。専用のかな・英数キーはありません。
+- SYMBOLSはNUM_SYSの数字と同じ位置にUS配列のShift記号を配置（8の位置には * を配置）。NUM_SYSの0は左手下段右端です。記号はSYMBOLSにまとめ、数値入力で使う四則演算・＝・小数点はNUM_SYSに配置し、* は数字のShift記号としてSYMBOLSにも配置しています。FUNCTIONは右手側の左4列に、上段F1〜F4・中段F5〜F8・下段F9〜F12を配置しています。
+- SYMBOLSにはNUM_SYSの / - + = . を除くUS記号27種類を配置。左端は上から `?`・シングルクォート・ダブルクォートで、`?` は `!` の左隣です。右側は上段から左詰めにし、記号の間の空きをなくしています。OPSの記号は透過に変更しました。NUM_SYSには左上から「/・−」、中段「*・＋」、下段左端「＝」、左下「.」を配置し、5.6などをレイヤーを切り替えず入力できます。ベースの句読点は維持しています。
+- 単独のF1〜F12はFUNCTIONだけに配置。OPSのF2・F11、NUM_SYSのF6〜F10は透過に変更しました。Alt＋F4などの固定ショートカットは維持しています。
+- EscはQ＋Wのコンボで入力します。Macでは右下のEscも使えます。
+- WindowsのH＋J（Win）とO＋P（右Ctrl）のコンボは削除しました。
+- Space長押しでNUM_SYS、Enter長押しで各OSのOPSを開きます。
+- NUM_SYSでは「かな」の位置が左Shift、「英数」の位置が右Shiftです。左Shiftは矢印での範囲選択、右Shiftは数字との記号入力に使えます。通常レイヤーでは元かなキーがFキーレイヤー、元英数キーが記号レイヤーの保持キーです。
+- NUM_SYSのDelete右隣を押している間、SYSTEMを開きます。
+
+[![Pyuron キーマップ早見表](docs/keymap-cheatsheet.jpg)](docs/keymap-cheatsheet.jpg)
+
+[HTML版](docs/keymap-cheatsheet.html) / [テキスト版](docs/keymap-cheatsheet.md)
 
 ## ZMK Studioによるキーマップの編集
 ### 手順1. 有線接続でキーマップを変更する場合は[ZMK Studio](https://zmk.studio/)にアクセス
